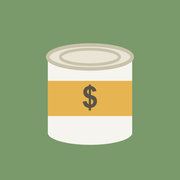
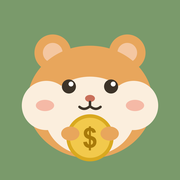
chore: 專案改名為「囤囤帳 TunTun」
- App 名稱、PWA manifest、備份檔名改為囤囤帳 / tuntun-ledger
- IndexedDB 改名為 tuntun-ledger，啟動時自動搬移舊資料庫的資料
- 還原備份時接受改名前的 canned-ledger 備份
- App 圖示由罐頭改為抱金幣的倉鼠
- 新增 v2 需求 SPEC

diff --git a/src/db/schema.ts b/src/db/schema.ts
@@ -1,6 +1,10 @@
 import Dexie, { type Table } from 'dexie'
 import type { Account, Book, Budget, Category, FxRate, Meta, Recurring, Transaction } from './types'
 
+export const DB_NAME = 'tuntun-ledger'
+/** 改名前的資料庫名稱，啟動時搬到新名稱 */
+const LEGACY_DB_NAME = 'canned-ledger'
+
 export class LedgerDB extends Dexie {
   books!: Table<Book, string>
   accounts!: Table<Account, string>
@@ -11,7 +15,7 @@ export class LedgerDB extends Dexie {
   fxRates!: Table<FxRate, [string, string, string]>
   meta!: Table<Meta, string>
 
-  constructor(name = 'canned-ledger') {
+  constructor(name = DB_NAME) {
     super(name)
     this.version(1).stores({
       books: 'id, sortOrder',
@@ -51,4 +55,24 @@ export async function getMeta<T>(key: string, fallback: T, d: LedgerDB = db): Pr
 
 export function setMeta(key: string, value: unknown, d: LedgerDB = db) {
   return d.meta.put({ key, value })
+}
+
+/** 舊名稱的資料庫有資料、新的還是空的時候，整份複製過來。舊資料庫保留不刪。 */
+export async function migrateLegacyDb(d: LedgerDB = db): Promise<boolean> {
+  const names = (await indexedDB.databases?.())?.map((x) => x.name) ?? []
+  if (!names.includes(LEGACY_DB_NAME)) return false
+  if ((await d.books.count()) > 0) return false
+  const old = new LedgerDB(LEGACY_DB_NAME)
+  try {
+    await old.open()
+    if ((await old.books.count()) === 0) return false
+    // 先讀完舊資料再寫，transaction 裡不能等待其他資料庫
+    const data = await Promise.all(TABLES.map((t) => old.table(t).toArray()))
+    await d.transaction('rw', TABLES.map((t) => d.table(t)), async () => {
+      for (const [i, t] of TABLES.entries()) await d.table(t).bulkPut(data[i])
+    })
+    return true
+  } finally {
+    old.close()
+  }
 }

diff --git a/src/db/seed.ts b/src/db/seed.ts
@@ -15,7 +15,7 @@ const EXPENSE: CatSeed[] = [
   ['社交', '🎁', [['聚餐', '🍻'], ['禮物', '🎁']]],
   ['寵物', '🐶'],
   ['保險', '🛡'],
-  ['其他', '🥫'],
+  ['其他', '📦'],
 ]
 const INCOME: CatSeed[] = [
   ['薪水', '💰'],
@@ -23,7 +23,7 @@ const INCOME: CatSeed[] = [
   ['投資', '📈'],
   ['兼職', '💼'],
   ['退款', '↩'],
-  ['其他', '🥫'],
+  ['其他', '📦'],
 ]
 
 const PALETTE = ['#e8a87c', '#85a8c9', '#c39bd3', '#7fb59a', '#e6b450', '#d98c9f', '#8fb4a8', '#b8a07e', '#9aa6d6', '#c9a27e']
@@ -80,7 +80,7 @@ export async function createBook(p: Pick<Book, 'name' | 'currency' | 'icon'>, d:
 export async function ensureSeed(d: LedgerDB = db): Promise<string> {
   const first = await d.books.orderBy('sortOrder').first()
   if (first) return first.id
-  const book = await createBook({ name: '日常', currency: 'TWD', icon: '🥫' }, d)
+  const book = await createBook({ name: '日常', currency: 'TWD', icon: '🐹' }, d)
   const now = Date.now()
   const bankId = uid()
   await d.accounts.bulkAdd([
@@ -138,5 +138,5 @@ export const ICONS = [
   '🐶', '🐱', '🐟', '🦜',
   '🛡', '🧾', '🏛', '💸', '🏧',
   '💰', '💼', '📈', '📉', '🪙', '💵', '💳', '🏦', '👛', '📲', '↩', '🎯',
-  '🥫', '⭐', '❤', '🌱', '🌙', '☀', '🍀', '🔖', '📦', '❓',
+  '🐹', '⭐', '❤', '🌱', '🌙', '☀', '🍀', '🔖', '📦', '❓',
 ]

diff --git a/tests/migrate.test.ts b/tests/migrate.test.ts
@@ -1,0 +1,24 @@
+import { describe, expect, it } from 'vitest'
+import { LedgerDB, migrateLegacyDb } from '../src/db/schema'
+import { account, freshDb } from './helpers'
+
+describe('改名後的資料庫搬移', () => {
+  it('新資料庫是空的時，複製舊資料庫的資料', async () => {
+    const old = new LedgerDB('canned-ledger')
+    await old.books.put({ id: 'b', name: '日常', currency: 'TWD', icon: '🥫', color: '#888', sortOrder: 0, updatedAt: 0 } as never)
+    await old.accounts.put(account({ id: 'bank' }))
+    old.close()
+
+    const d = freshDb()
+    expect(await migrateLegacyDb(d)).toBe(true)
+    expect(await d.books.count()).toBe(1)
+    expect((await d.accounts.get('bank'))?.name).toBe('bank')
+    // 已經有資料就不再搬
+    expect(await migrateLegacyDb(d)).toBe(false)
+    await new LedgerDB('canned-ledger').delete()
+  })
+
+  it('沒有舊資料庫時什麼都不做', async () => {
+    expect(await migrateLegacyDb(freshDb())).toBe(false)
+  })
+})

diff --git a/src/io/backup.ts b/src/io/backup.ts
@@ -1,6 +1,8 @@
 import { db as defaultDb, TABLES, type LedgerDB, type TableName } from '../db/schema'
 
-export const BACKUP_APP = 'canned-ledger'
+export const BACKUP_APP = 'tuntun-ledger'
+/** 改名前匯出的備份也要能還原 */
+const LEGACY_BACKUP_APPS = ['canned-ledger']
 export const SCHEMA_VERSION = 1
 
 export interface Backup {
@@ -20,7 +22,7 @@ export async function exportBackup(d: LedgerDB = defaultDb): Promise<Backup> {
 
 export function validateBackup(data: unknown): Backup {
   const b = data as Backup
-  if (!b || b.app !== BACKUP_APP || typeof b.tables !== 'object') throw new Error('不是罐頭記帳的備份檔')
+  if (!b || (b.app !== BACKUP_APP && !LEGACY_BACKUP_APPS.includes(b.app)) || typeof b.tables !== 'object') throw new Error('不是囤囤帳的備份檔')
   if (b.schemaVersion > SCHEMA_VERSION) throw new Error('備份檔版本比目前 App 新，請先更新 App')
   return b
 }

diff --git a/src/views/SettingsView.vue b/src/views/SettingsView.vue
@@ -102,7 +102,7 @@ const version = __APP_VERSION__
     <div class="list" style="margin-top: 18px">
       <RouterLink to="/help" class="row"><span class="emoji">❓</span><span class="grow">使用說明</span><span class="chev">›</span></RouterLink>
     </div>
-    <p class="help" style="text-align: center; margin-top: 16px">罐頭記帳 Web v{{ version }} · 資料只存在本機</p>
+    <p class="help" style="text-align: center; margin-top: 16px">囤囤帳 TunTun v{{ version }} · 資料只存在本機</p>
 
     <Sheet v-if="pinSheet" :title="pinSheet === 'set' ? '設定密碼' : '關閉密碼鎖'" @close="pinSheet = null">
       <div class="list">

diff --git a/src/App.vue b/src/App.vue
@@ -1,7 +1,7 @@
 <script setup lang="ts">
 import { onMounted, onUnmounted, ref } from 'vue'
 import { useRoute } from 'vue-router'
-import { db } from './db/schema'
+import { db, migrateLegacyDb } from './db/schema'
 import { ensureSeed } from './db/seed'
 import { runScheduler } from './domain/scheduler'
 import { hasPin } from './domain/lock'
@@ -34,6 +34,7 @@ async function onVisible() {
 
 onMounted(async () => {
   applyTheme(ui.theme, ui.accent)
+  await migrateLegacyDb()
   const firstId = await ensureSeed()
   if (!ui.bookId || !(await db.books.get(ui.bookId))) ui.setBook(firstId)
   ui.locked = await hasPin()

diff --git a/src/views/HelpView.vue b/src/views/HelpView.vue
@@ -7,7 +7,7 @@ import TopBar from '../components/TopBar.vue'
     <TopBar title="使用說明" back />
 
     <section class="card">
-      <h3>🥫 資料存在哪？</h3>
+      <h3>🐹 資料存在哪？</h3>
       <p>所有資料都存在這個瀏覽器的 IndexedDB，不會上傳到任何伺服器。換來的代價是：<b>清除瀏覽器資料、刪掉主畫面 App 就會遺失</b>。請定期到「設定 → 資料」下載 JSON 備份。</p>
       <p>iPhone 請用 Safari「分享 → 加入主畫面」安裝。沒安裝的話，Safari 可能在 7 天沒開啟後清除網站資料。</p>
     </section>

diff --git a/index.html b/index.html
@@ -6,10 +6,10 @@
     <meta name="theme-color" content="#7a9a6b" />
     <meta name="apple-mobile-web-app-capable" content="yes" />
     <meta name="apple-mobile-web-app-status-bar-style" content="default" />
-    <meta name="apple-mobile-web-app-title" content="罐頭記帳" />
+    <meta name="apple-mobile-web-app-title" content="囤囤帳" />
     <link rel="icon" href="./icon.svg" type="image/svg+xml" />
     <link rel="apple-touch-icon" href="./apple-touch-icon.png" />
-    <title>罐頭記帳</title>
+    <title>囤囤帳</title>
   </head>
   <body>
     <div id="app"></div>

diff --git a/tests/setup.ts b/tests/setup.ts
@@ -3,3 +3,14 @@ import { webcrypto } from 'node:crypto'
 
 // Node 18 沒有全域 crypto
 if (!globalThis.crypto) Object.defineProperty(globalThis, 'crypto', { value: webcrypto })
+
+// Node 18 沒有全域 CustomEvent，Dexie 關閉資料庫時會用到
+if (!globalThis.CustomEvent) {
+  globalThis.CustomEvent = class<T> extends Event {
+    detail: T
+    constructor(type: string, init?: CustomEventInit<T>) {
+      super(type, init)
+      this.detail = init?.detail as T
+    }
+  } as unknown as typeof CustomEvent
+}

diff --git a/src/views/DataView.vue b/src/views/DataView.vue
@@ -24,7 +24,7 @@ const backupAge = computed(() => (lastBackup.value ? diffDays(lastBackup.value.s
 
 async function doExport() {
   const b = await exportBackup()
-  downloadFile(`canned-ledger-${today()}.json`, JSON.stringify(b), 'application/json')
+  downloadFile(`tuntun-ledger-${today()}.json`, JSON.stringify(b), 'application/json')
   // 存本地日期，避免 UTC 跨日誤差
   lastBackup.value = today()
   await setMeta('lastBackupAt', today())

diff --git a/vite.config.ts b/vite.config.ts
@@ -13,8 +13,8 @@ export default defineConfig({
       registerType: 'autoUpdate',
       includeAssets: ['icon.svg', 'apple-touch-icon.png'],
       manifest: {
-        name: '罐頭記帳 Web',
-        short_name: '罐頭記帳',
+        name: '囤囤帳 TunTun',
+        short_name: '囤囤帳',
         description: '離線可用的極簡記帳，資料只存在你的裝置',
         lang: 'zh-Hant-TW',
         theme_color: '#7a9a6b',

diff --git a/src/views/HomeView.vue b/src/views/HomeView.vue
@@ -130,7 +130,7 @@ function pickBook(id: string) {
 
     <TxList v-if="monthTxs.length" :txs="monthTxs" :accounts="accountMap" :categories="categoryMap" show-day-total />
     <div v-else class="empty">
-      <div class="big">🥫</div>
+      <div class="big">🐹</div>
       這個月還沒有記帳<br />點下方 ＋ 記第一筆吧
     </div>
 
